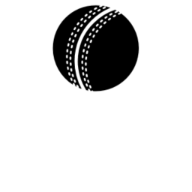
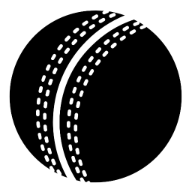
Adds advance and full price editing to slot manager
Enables admins to set advance and full pricing for each slot,
improving flexibility in booking management. Updates the UI to
allow price input alongside status toggling. Removes unused icon
files and updates public icon assets for consistency.

diff --git a/src/app/admin/(panel)/config/slot-manager.tsx b/src/app/admin/(panel)/config/slot-manager.tsx
@@ -5,6 +5,7 @@ import { toast } from "sonner";
 
 import { Button } from "~/components/ui/button";
 import { Card } from "~/components/ui/card";
+import { Input } from "~/components/ui/input";
 import {
   Drawer,
   DrawerClose,
@@ -21,6 +22,8 @@ interface Slot {
   from: string;
   to: string;
   status: "available" | "booked" | "unavailable" | "bookingInProgress";
+  advanceAmount?: number;
+  fullAmount?: number;
 }
 
 interface SlotsConfig {
@@ -38,10 +41,14 @@ export function SlotManager() {
 
   const { data: config } = api.admin.configGet.useQuery();
   const configUpdateMutation = api.admin.configUpdate.useMutation();
+  const utils = api.useContext();
 
   const handleOpenDrawer = useCallback(() => {
     if (config?.slots) {
-      setSlotsConfig(config.slots as SlotsConfig);
+      const clonedSlots = JSON.parse(
+        JSON.stringify(config.slots),
+      ) as SlotsConfig;
+      setSlotsConfig(clonedSlots);
       setIsOpen(true);
     }
   }, [config]);
@@ -63,6 +70,33 @@ export function SlotManager() {
     [slotsConfig],
   );
 
+  const handlePriceChange = useCallback(
+    (
+      index: number,
+      field: "advanceAmount" | "fullAmount",
+      rawValue: string,
+    ) => {
+      if (!slotsConfig) return;
+
+      const parsed = parseFloat(rawValue);
+      const amountInPaise = Number.isNaN(parsed)
+        ? 0
+        : Math.max(0, Math.round(parsed * 100));
+
+      const updatedSlots = [...slotsConfig.AvailableSlots];
+      updatedSlots[index] = {
+        ...updatedSlots[index]!,
+        [field]: amountInPaise,
+      };
+
+      setSlotsConfig({
+        ...slotsConfig,
+        AvailableSlots: updatedSlots,
+      });
+    },
+    [slotsConfig],
+  );
+
   const handleSaveSlots = useCallback(async () => {
     if (!slotsConfig) return;
 
@@ -71,6 +105,7 @@ export function SlotManager() {
       await configUpdateMutation.mutateAsync({
         slots: slotsConfig,
       });
+      await utils.admin.configGet.invalidate();
       toast.success("Slots updated successfully");
       setIsOpen(false);
     } catch (error) {
@@ -89,7 +124,7 @@ export function SlotManager() {
           <div className="flex-1">
             <p className="text-sm font-semibold">{strings.slotManagerTitle}</p>
             <p className="text-muted-foreground text-xs">
-              Toggle time slots on and off
+              Toggle slot availability and edit advance/full pricing
             </p>
           </div>
           <Button
@@ -109,24 +144,99 @@ export function SlotManager() {
             <DrawerTitle>{strings.slotManagerTitle}</DrawerTitle>
           </DrawerHeader>
 
-          <div className="max-h-[60vh] overflow-y-auto px-4 pb-4">
+          <div className="max-h-[60vh] space-y-3 overflow-y-auto px-4 pb-4">
             {slotsConfig?.AvailableSlots &&
             slotsConfig.AvailableSlots.length > 0 ? (
-              <div className="grid grid-cols-2 gap-2">
-                {slotsConfig.AvailableSlots.map((slot, index) => (
-                  <button
-                    key={`${slot.from}-${slot.to}`}
-                    onClick={() => handleToggleSlot(index)}
-                    className={`rounded-2xl px-4 py-3 text-sm font-medium transition ${
-                      slot.status === "unavailable"
-                        ? "bg-muted text-muted-foreground line-through"
-                        : "bg-primary text-primary-foreground hover:opacity-90"
-                    }`}
+              slotsConfig.AvailableSlots.map((slot, index) => {
+                const isUnavailable = slot.status === "unavailable";
+                const statusLabel =
+                  slot.status === "bookingInProgress"
+                    ? "Booking in progress"
+                    : slot.status === "booked"
+                      ? "Booked"
+                      : isUnavailable
+                        ? "Unavailable"
+                        : "Available";
+
+                return (
+                  <div
+                    key={`${slot.from}-${slot.to}-${index}`}
+                    className="border-border/60 bg-card/40 rounded-3xl border p-4"
                   >
-                    {formatSlotRange(slot.from, slot.to)}
-                  </button>
-                ))}
-              </div>
+                    <div className="flex items-start justify-between gap-3">
+                      <div>
+                        <p className="text-sm font-semibold">
+                          {formatSlotRange(slot.from, slot.to)}
+                        </p>
+                        <p className="text-muted-foreground text-xs uppercase">
+                          {statusLabel}
+                        </p>
+                      </div>
+                      <button
+                        type="button"
+                        onClick={() => handleToggleSlot(index)}
+                        className={`rounded-2xl px-4 py-2 text-xs font-semibold transition ${
+                          isUnavailable
+                            ? "bg-muted text-muted-foreground"
+                            : "bg-primary text-primary-foreground"
+                        }`}
+                      >
+                        {isUnavailable ? "Mark available" : "Mark unavailable"}
+                      </button>
+                    </div>
+                    <div className="grid gap-3 pt-3 sm:grid-cols-2">
+                      <div className="space-y-1">
+                        <p className="text-muted-foreground text-[11px] font-semibold uppercase">
+                          Advance price
+                        </p>
+                        <div className="flex items-center gap-2">
+                          <span className="text-muted-foreground text-sm">
+                            ₹
+                          </span>
+                          <Input
+                            type="number"
+                            min="0"
+                            step="0.01"
+                            value={(slot.advanceAmount ?? 0) / 100}
+                            onChange={(event) =>
+                              handlePriceChange(
+                                index,
+                                "advanceAmount",
+                                event.target.value,
+                              )
+                            }
+                            className="flex-1 rounded-2xl"
+                          />
+                        </div>
+                      </div>
+                      <div className="space-y-1">
+                        <p className="text-muted-foreground text-[11px] font-semibold uppercase">
+                          Full price
+                        </p>
+                        <div className="flex items-center gap-2">
+                          <span className="text-muted-foreground text-sm">
+                            ₹
+                          </span>
+                          <Input
+                            type="number"
+                            min="0"
+                            step="0.01"
+                            value={(slot.fullAmount ?? 0) / 100}
+                            onChange={(event) =>
+                              handlePriceChange(
+                                index,
+                                "fullAmount",
+                                event.target.value,
+                              )
+                            }
+                            className="flex-1 rounded-2xl"
+                          />
+                        </div>
+                      </div>
+                    </div>
+                  </div>
+                );
+              })
             ) : (
               <div className="flex flex-col items-center justify-center gap-2 py-8">
                 <AlertCircle className="text-muted-foreground h-6 w-6" />
